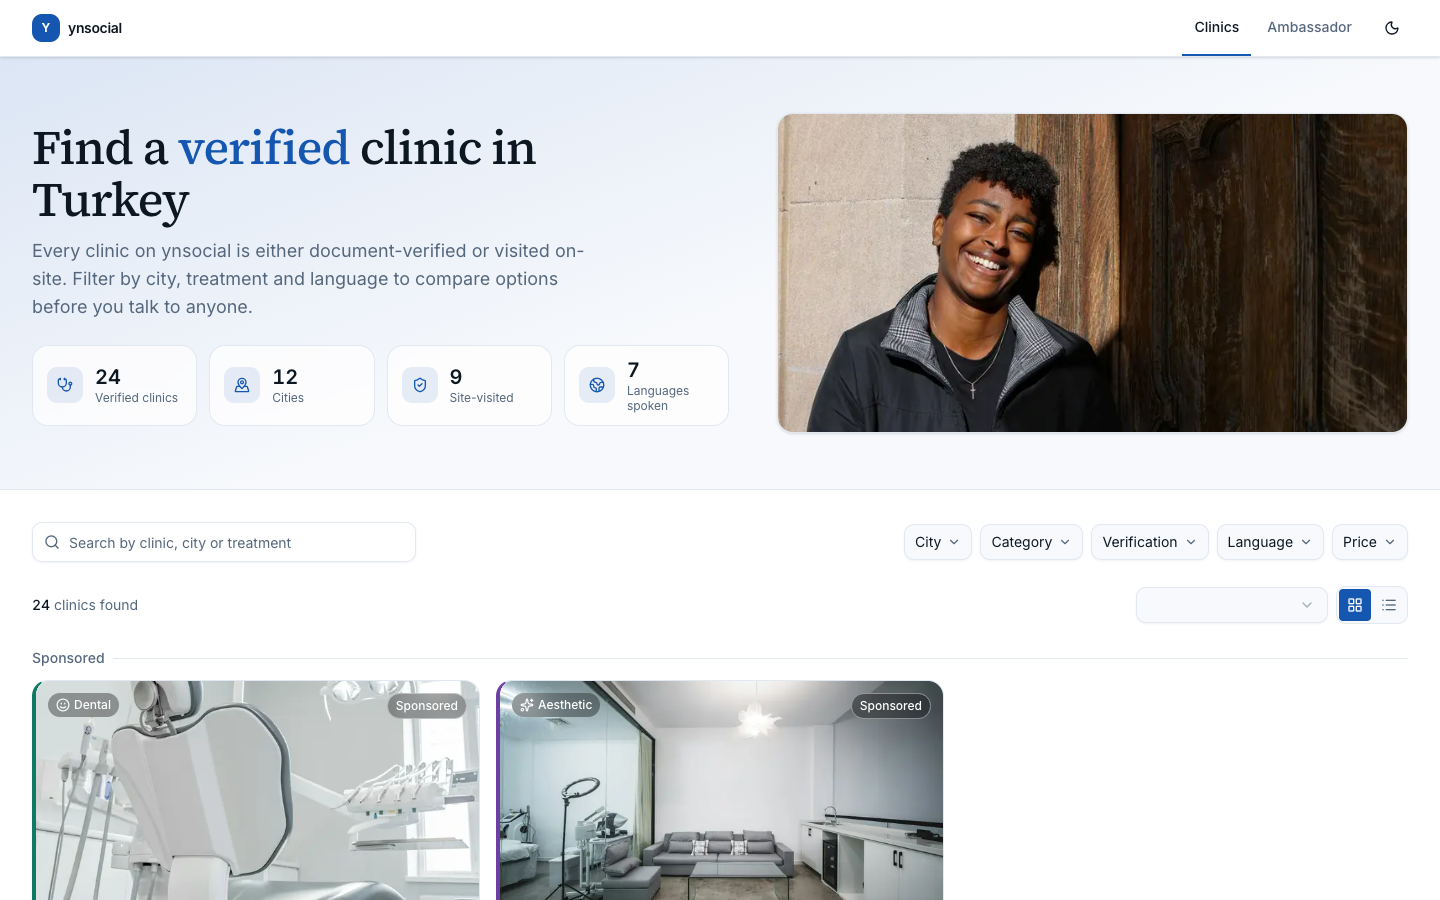
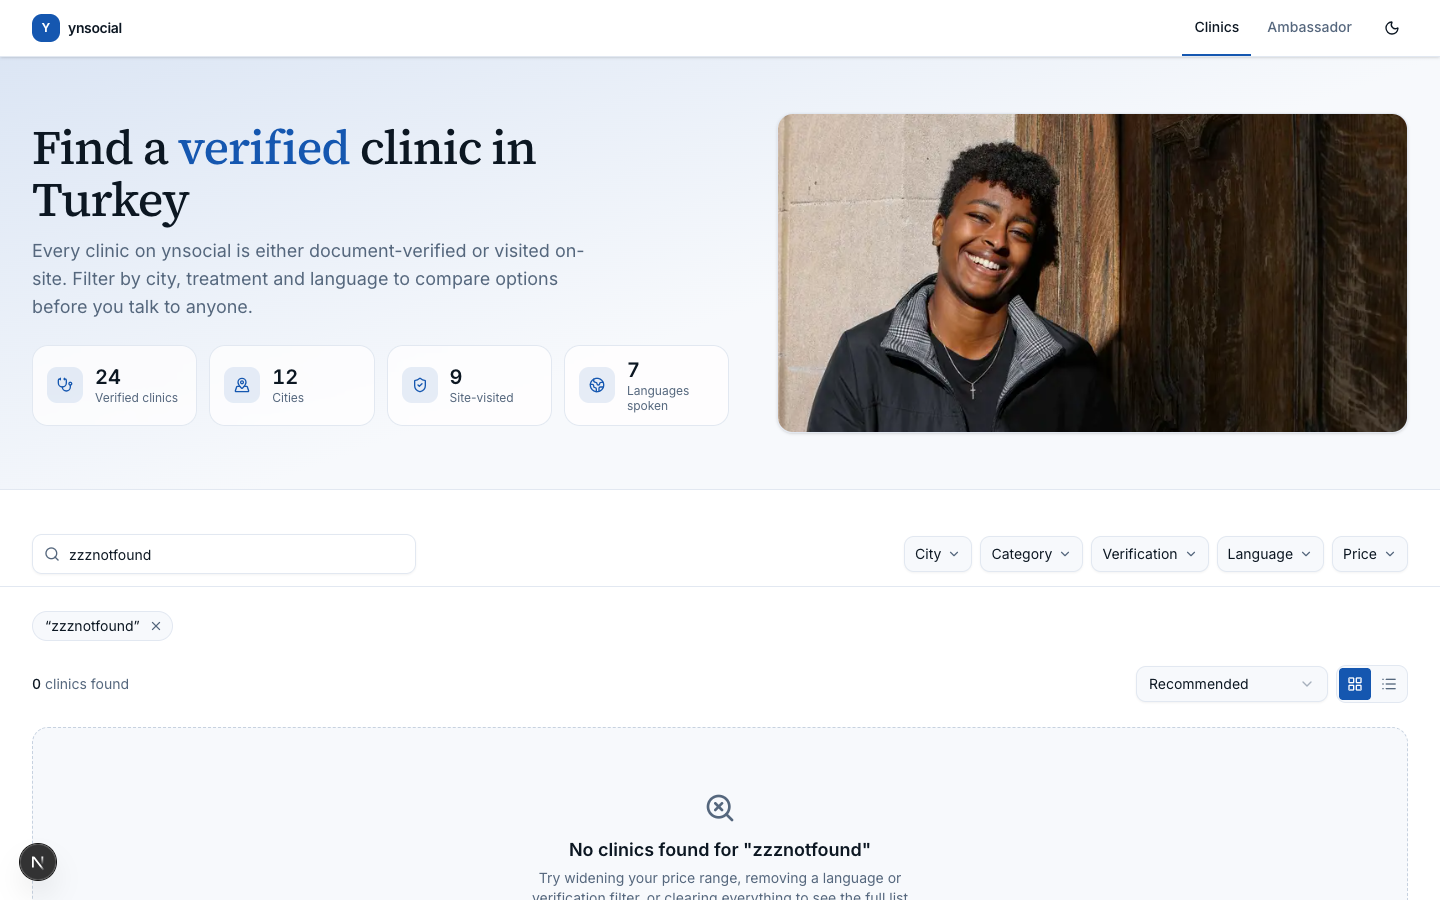
Sticky search/filter bar, counter animation on trust stat tiles
Search and the filter controls now stick just below the nav on scroll,
so they stay reachable through a long result list. Trust-stat tiles count
up once on mount (same pattern as the ambassador summary cards) and lift
slightly on hover.

Cherry-picked from a batch of UI suggestions pasted in from elsewhere; the
rest (a second gold accent color, booking/consultation CTAs, a fake
"Community Favorite" badge, geolocation-based greeting copy, a scripted
concierge chat widget) were left out — each one directly conflicts with a
rule the brief states explicitly (one accent color, no forms, no invented
rating signals, no backend-dependent personalization).

diff --git a/src/components/clinics/clinics-explorer.tsx b/src/components/clinics/clinics-explorer.tsx
@@ -129,37 +129,39 @@ export function ClinicsExplorer({ allClinics }: { allClinics: Clinic[] }) {
 
   return (
     <div className="flex flex-col gap-6">
-      <div className="flex flex-col gap-3 sm:flex-row sm:items-center sm:justify-between">
-        <div className="relative w-full sm:max-w-sm">
-          <Search
-            className="pointer-events-none absolute left-3 top-1/2 size-4 -translate-y-1/2 text-text-muted"
-            aria-hidden="true"
-          />
-          <Input
-            value={searchDraft}
-            onChange={(event) => setSearchDraft(event.target.value)}
-            placeholder="Search by clinic, city or treatment"
-            className="h-10 pl-9"
-            aria-label="Search clinics"
-          />
-        </div>
+      <div className="sticky top-14 z-30 -mx-4 border-b border-border bg-bg/95 px-4 py-3 backdrop-blur sm:-mx-5 sm:px-5 lg:-mx-8 lg:px-8">
+        <div className="mx-auto flex w-full page-container flex-col gap-3 sm:flex-row sm:items-center sm:justify-between">
+          <div className="relative w-full sm:max-w-sm">
+            <Search
+              className="pointer-events-none absolute left-3 top-1/2 size-4 -translate-y-1/2 text-text-muted"
+              aria-hidden="true"
+            />
+            <Input
+              value={searchDraft}
+              onChange={(event) => setSearchDraft(event.target.value)}
+              placeholder="Search by clinic, city or treatment"
+              className="h-10 pl-9"
+              aria-label="Search clinics"
+            />
+          </div>
 
-        <ClinicFiltersBar
-          facets={facets}
-          priceBounds={priceBounds}
-          filters={filters}
-          onChange={updateFilters}
-          className="hidden flex-wrap items-center gap-2 lg:flex"
-        />
-
-        <div className="lg:hidden">
-          <ClinicFilterDrawer
+          <ClinicFiltersBar
             facets={facets}
             priceBounds={priceBounds}
             filters={filters}
             onChange={updateFilters}
-            countResults={countResults}
+            className="hidden flex-wrap items-center gap-2 lg:flex"
           />
+
+          <div className="lg:hidden">
+            <ClinicFilterDrawer
+              facets={facets}
+              priceBounds={priceBounds}
+              filters={filters}
+              onChange={updateFilters}
+              countResults={countResults}
+            />
+          </div>
         </div>
       </div>
 

diff --git a/src/components/clinics/trust-stats.tsx b/src/components/clinics/trust-stats.tsx
@@ -1,4 +1,7 @@
+"use client"
+
 import { Globe2, MapPinned, ShieldCheck, Stethoscope, type LucideIcon } from "lucide-react"
+import { AnimatedNumber } from "@/components/common/animated-number"
 import type { Clinic } from "@/types/clinic"
 
 /** Real, computed numbers as individual tiles — not decoration, not
@@ -22,13 +25,15 @@ export function TrustStats({ clinics }: { clinics: Clinic[] }) {
       {stats.map((stat) => (
         <div
           key={stat.label}
-          className="flex items-center gap-3 rounded-lg border border-border bg-bg/70 px-3.5 py-3 backdrop-blur-sm"
+          className="flex items-center gap-3 rounded-lg border border-border bg-bg/70 px-3.5 py-3 backdrop-blur-sm transition-[transform,box-shadow] duration-150 hover:-translate-y-0.5 hover:shadow-md"
         >
           <span className="flex size-9 shrink-0 items-center justify-center rounded-md bg-primary/10 text-primary">
             <stat.icon className="size-4" aria-hidden="true" />
           </span>
           <div className="min-w-0">
-            <dd className="tabular text-xl font-semibold leading-tight text-text">{stat.value}</dd>
+            <dd className="tabular text-xl font-semibold leading-tight text-text">
+              <AnimatedNumber value={stat.value} format={(n) => String(Math.round(n))} />
+            </dd>
             <dt className="text-xs leading-tight text-text-muted">{stat.label}</dt>
           </div>
         </div>

diff --git a/README.md b/README.md
@@ -259,7 +259,9 @@ The URL is still kept in sync — via the History API directly
 specifically so that ticking a filter checkbox never triggers a Next.js
 navigation, which would re-run the mock delay and flash the loading
 skeleton on every click. Reload and back/forward both restore the exact
-filter state from the URL, as required.
+filter state from the URL, as required. The search-and-filter row is also
+sticky just below the nav (`top-14`), so it stays reachable while scrolling
+a long result list instead of requiring a trip back to the top.
 
 **A note on "calm" vs. "lifeless."** An early pass read as flat rather than
 restrained — same problem the brief warns against just from the other
